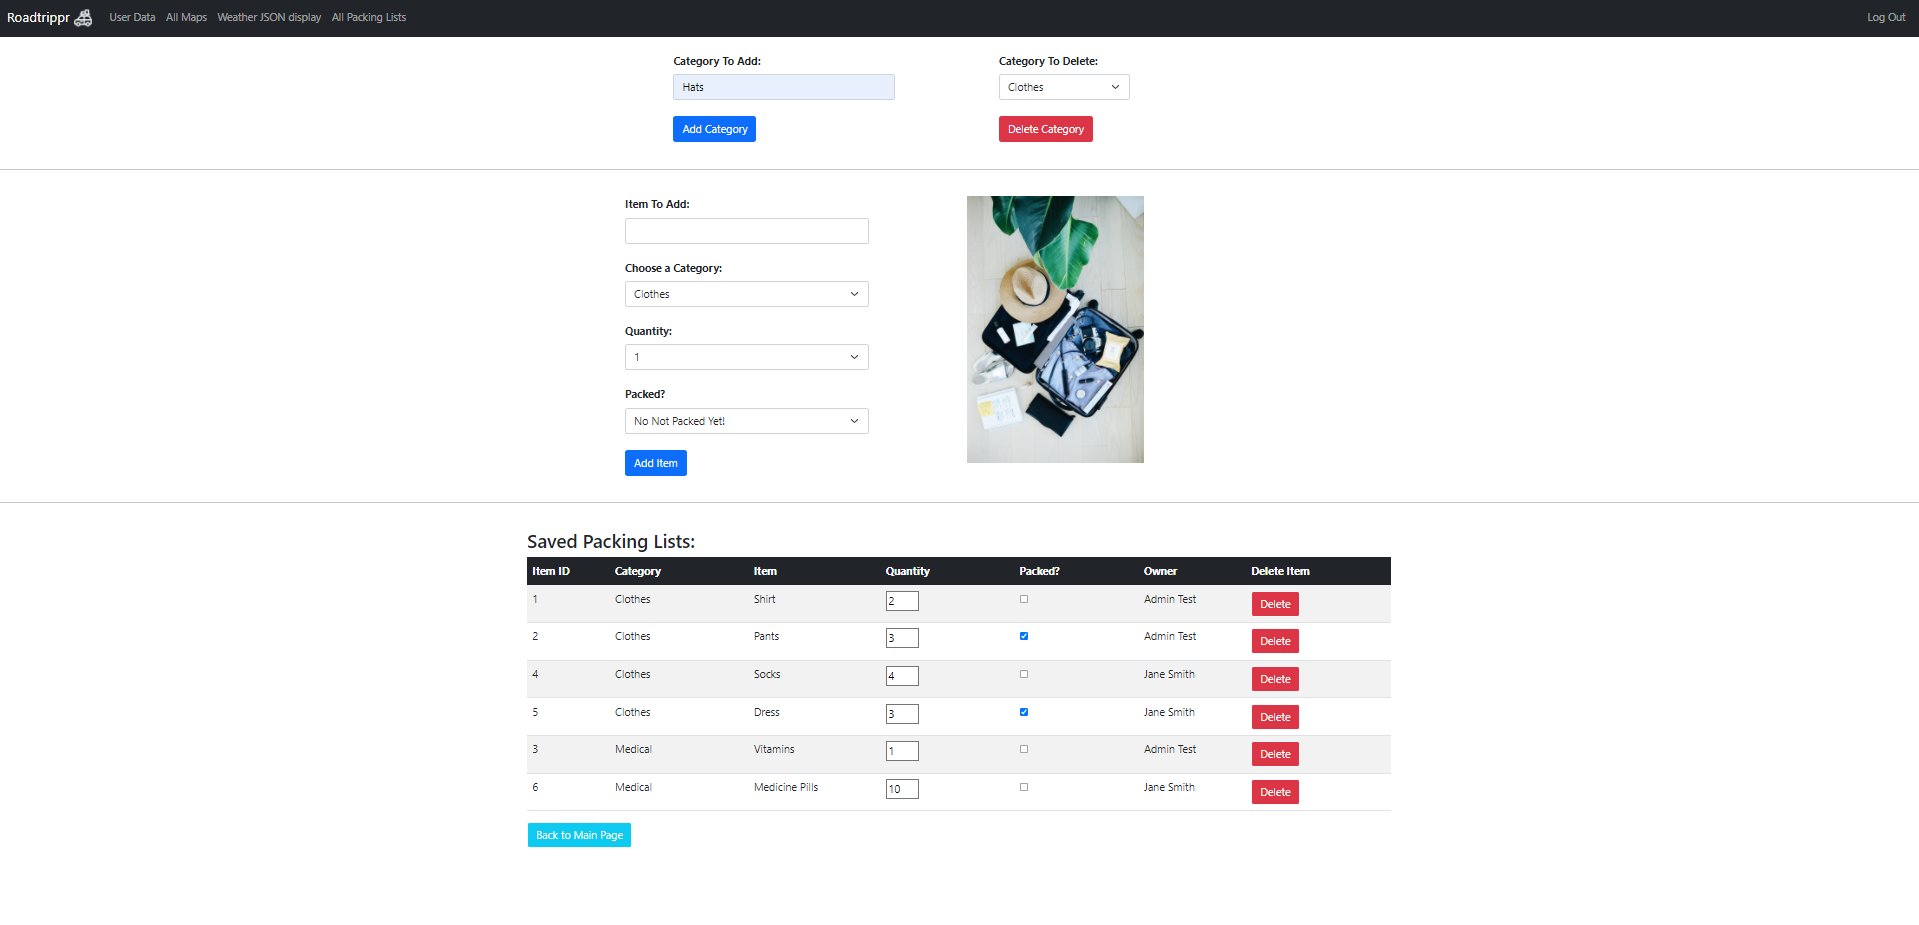
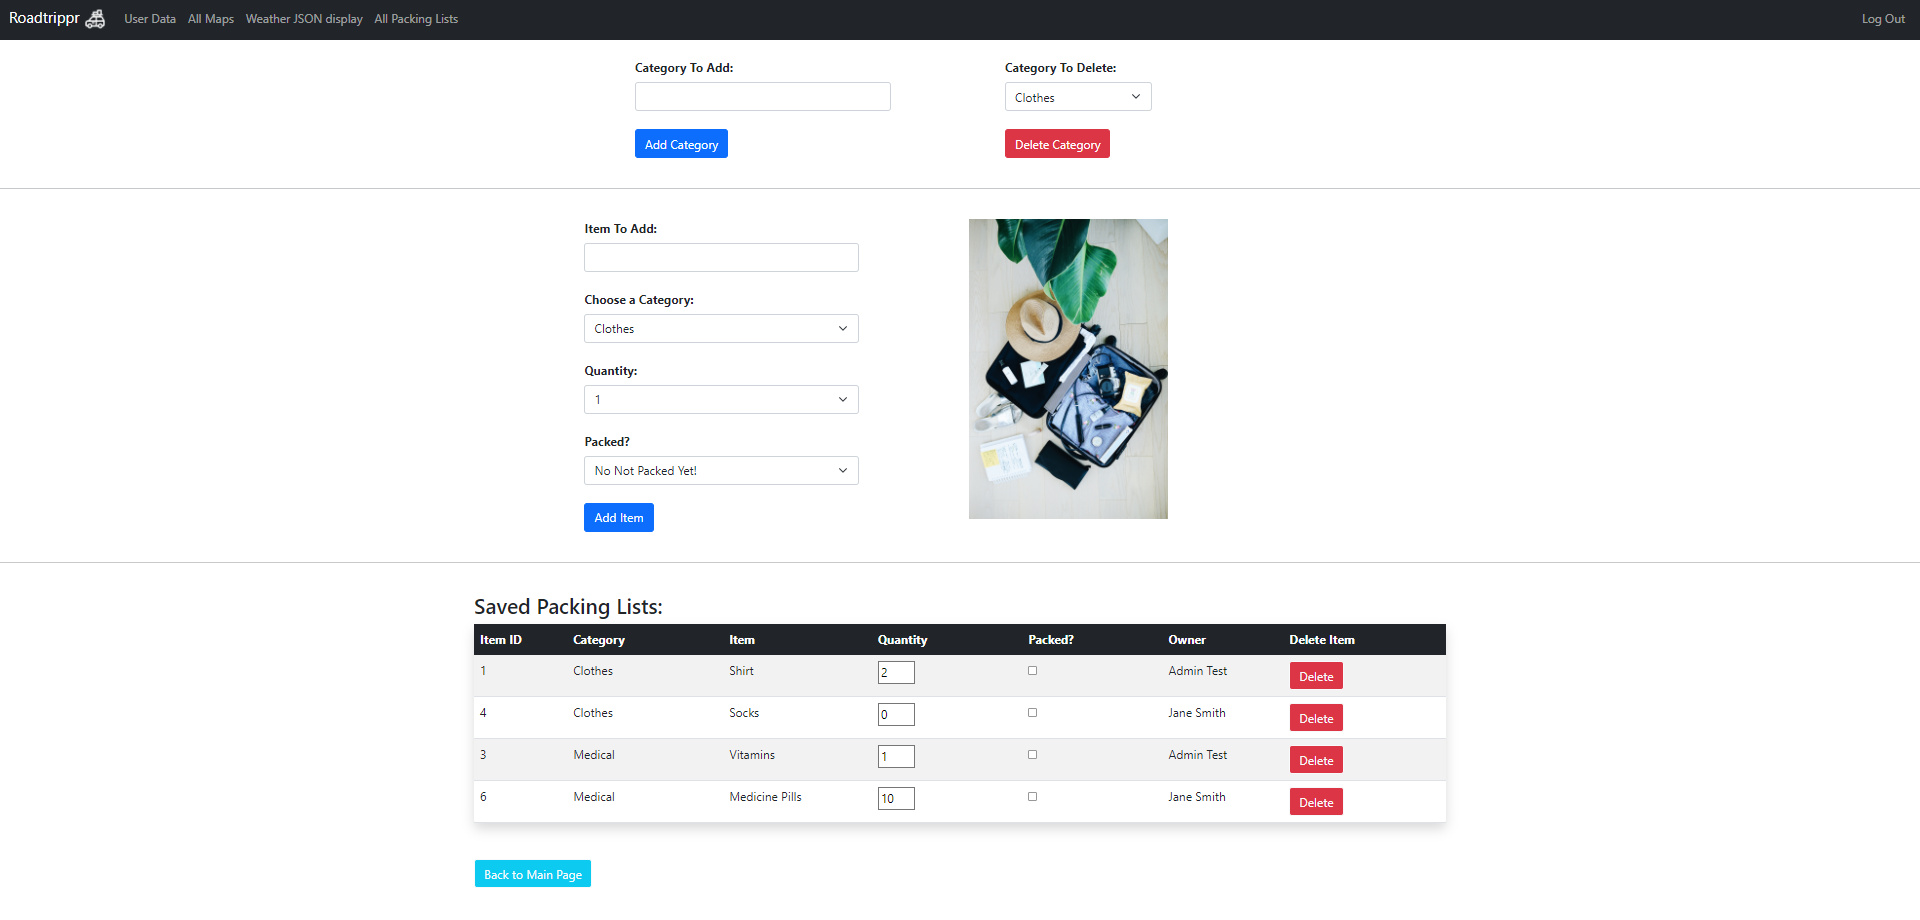
add shadows

Changed region(s): [[0.0, 0.0, 1.0, 0.9739], [0.3075, 0.213, 0.3997, 0.3652]]

diff --git a/templates/maps.html b/templates/maps.html
@@ -24,8 +24,8 @@
         <div class="row row-cols-md-2 container mx-auto" id = "card-grid">
 
         {% for map in list_maps %}
-            <div class="col mb-4">
-                <div class="card bg-light">
+            <div class="col mb-4 ">
+                <div class="card bg-light shadow mb-5 bg-body rounded">
                     <div class="card-header">
                         <center>
                         <h3>Map # {{loop.index}}</h3>

diff --git a/templates/packinglist.html b/templates/packinglist.html
@@ -168,7 +168,7 @@
 
 {% if packinglist is defined and packinglist|length > 0 %}
 
-<table class="table table-striped">
+<table class="table table-striped shadow mb-5 bg-body rounded">
     <thead class="table-dark">
       <tr>
         {% if 'logged_in_user' in session and user.email == 'admin@test.com'%}
